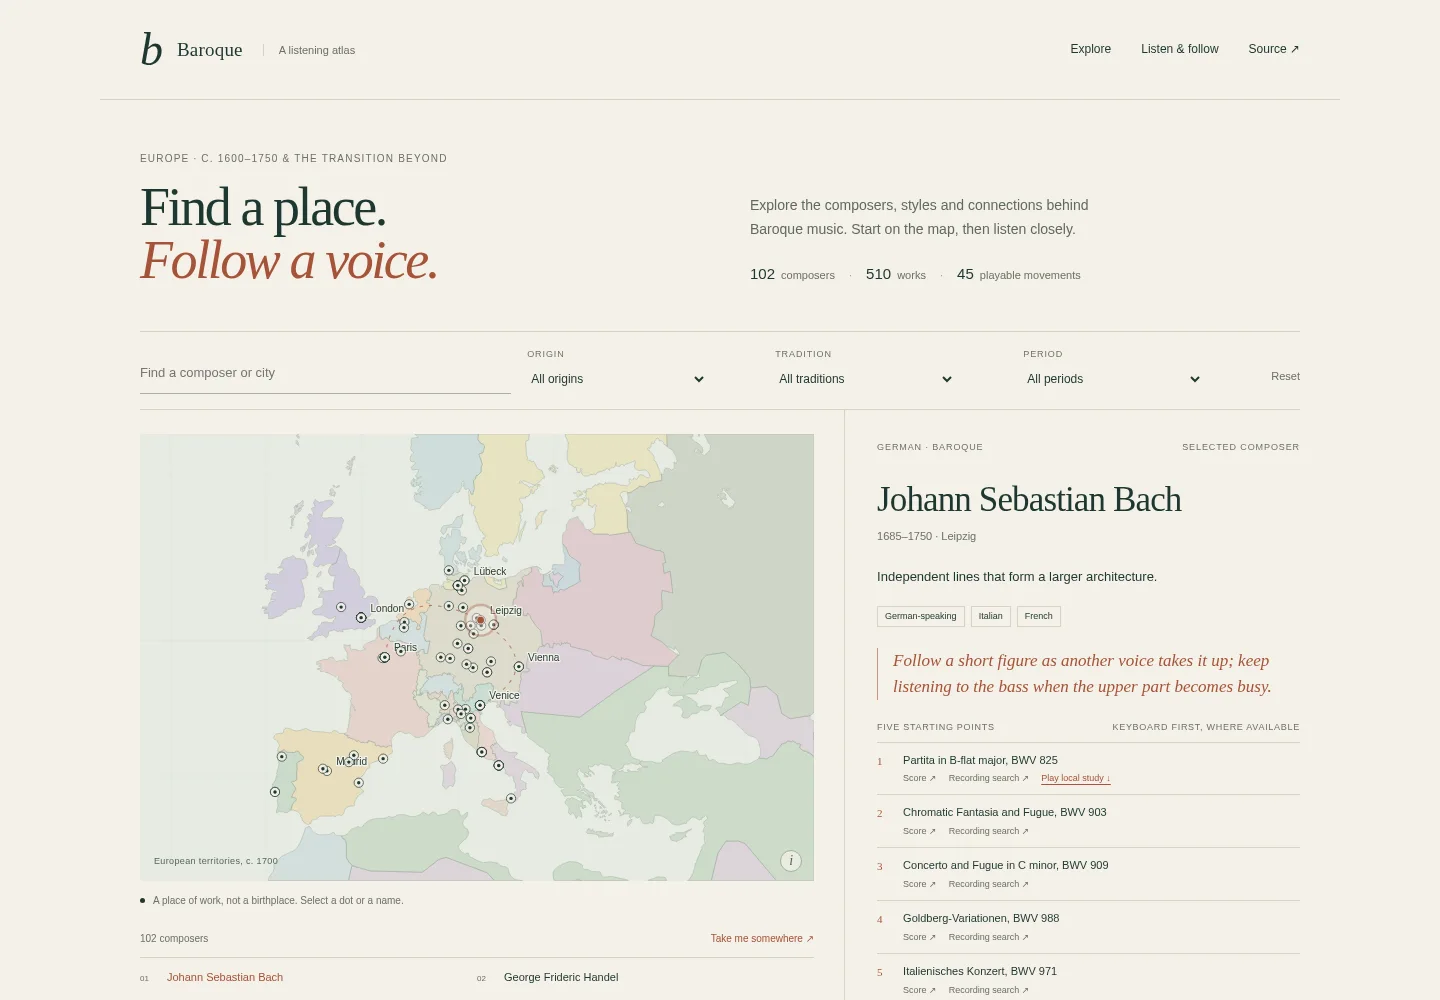
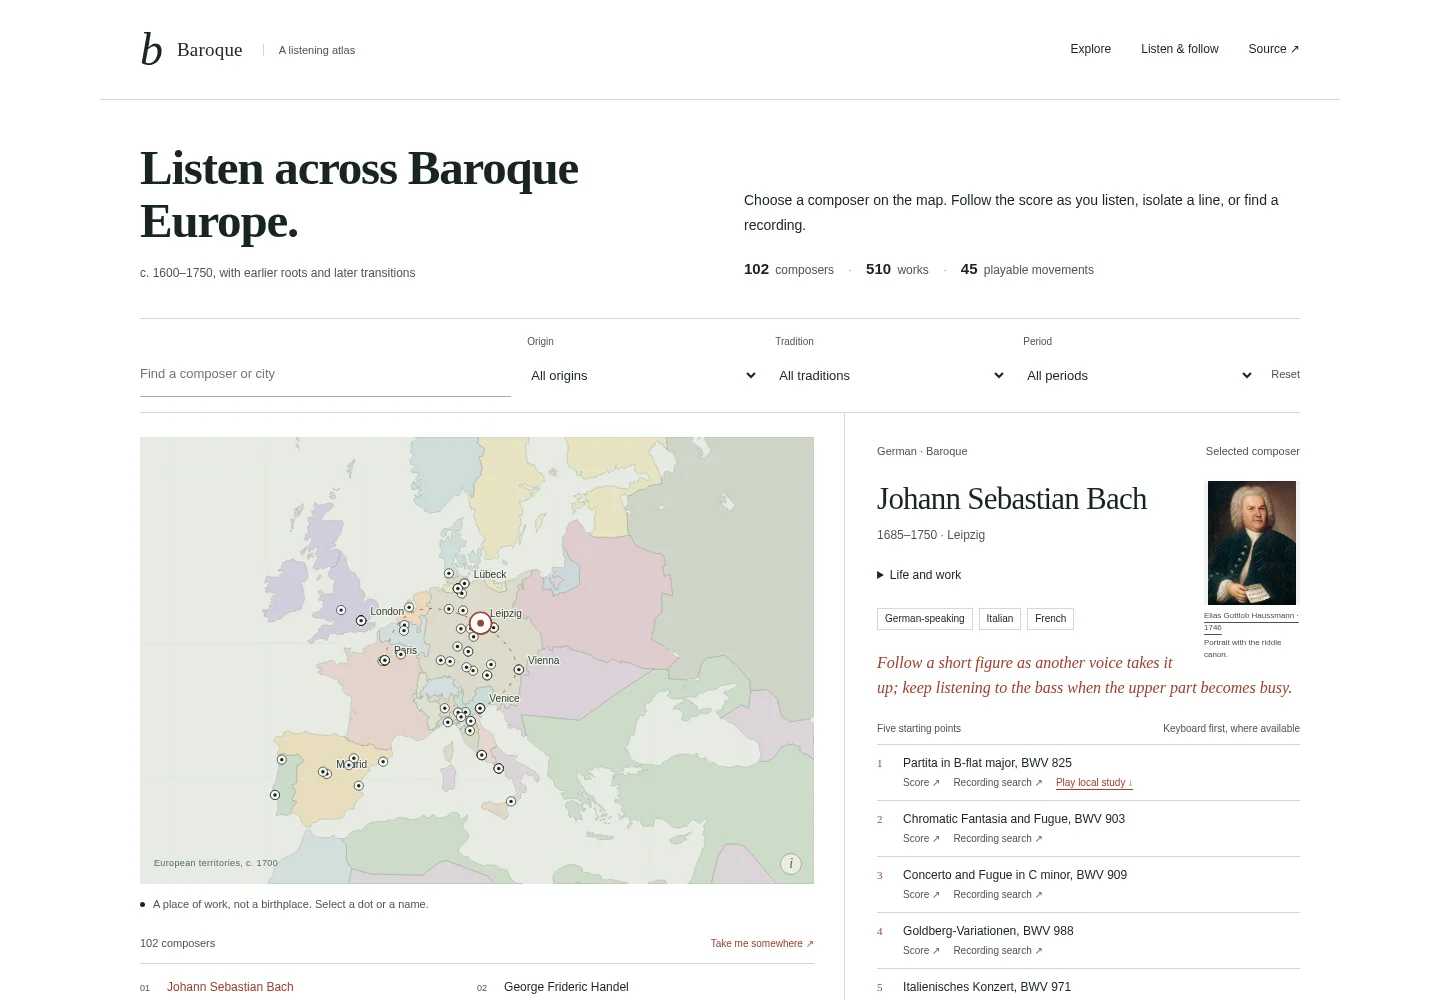
Refine mobile listening and publish score and atlas captures [skip ci]

diff --git a/src/index.html b/src/index.html
@@ -11,8 +11,8 @@
 <div class="atlas-layout"><div class="map-column"><div class="map-wrap"><svg id="map" viewBox="0 0 800 530" role="group" aria-label="Composers at one associated working city"><g id="map-base"><!--MAP--></g><g id="routes" aria-hidden="true"></g><g id="map-labels" aria-hidden="true"></g><g id="markers"></g></svg><div class="map-caption"><span>European territories, c. 1700</span><button class="map-help" id="map-help" aria-label="About the map">i</button></div></div><p class="map-note"><span class="map-dot"></span> A place of work, not a birthplace. Select a dot or a name.</p><div class="directory-head"><span id="result-count" aria-live="polite">102 composers</span><button id="random" class="text-button">Take me somewhere ↗</button></div><div id="directory" class="directory" aria-label="Composer directory"></div></div><aside id="composer" class="composer" aria-label="Selected composer"></aside></div>
 </section>
 <section id="study" class="study-section"><span id="player" aria-hidden="true"></span><div class="section-top"><div><h2>Listen with the score.</h2></div><button id="bach-study" class="outline">Study Bach's three voices ↗</button></div><div class="study-header"><div><p id="study-composer" class="eyebrow">J. S. Bach · BWV 825</p><h3 id="study-title">Praeludium · the first six bars</h3><p id="study-description">Three distinct lines, one keyboard. Follow the upper, inner and bass voices separately, then bring them together.</p></div><label class="movement-label"><span>Local keyboard studies</span><select id="movement"></select></label></div><div class="transport"><button id="play" class="play" aria-label="Play the selected study">▶ <span>Listen</span></button><button id="restart" class="restart" aria-label="Return to beginning">↺</button><span id="elapsed">0:00</span><input id="seek" aria-label="Playback position in seconds" type="range" min="0" max="36" step=".1" value="0"><span id="duration">0:36</span><label class="speed-label">Speed <select id="speed"><option value=".5">½×</option><option value=".75">¾×</option><option value="1" selected>1×</option><option value="1.25">1¼×</option></select></label><label class="volume-label"><span class="sr-only">Volume</span><input id="volume" aria-label="Volume" type="range" min="0" max=".7" step=".01" value=".42"></label></div><div class="voice-row" id="voices"></div>
-<details class="mix-levels"><summary>Balance source tracks</summary><div id="track-levels"></div></details><div class="sound-options"><label>Keyboard <select id="timbre"><option value="harpsichord">Harpsichord</option><option value="clavichord">Clavichord</option><option value="piano">Piano study</option><option value="organ">Small organ</option></select></label><label>Room <input id="reverb" type="range" min="0" max=".35" step=".01" value=".12"></label><label>Tuning <select id="tuning"><option value="440">A = 440 Hz</option><option value="415">A = 415 Hz</option></select></label><div class="loop-controls"><button id="loop-a" class="outline">Set A</button><button id="loop-b" class="outline">Set B</button><button id="loop-clear" class="text-button">Clear loop</button><span id="loop-state" role="status">Loop off</span></div></div>
-<div class="score-controls"><button id="score-prev" class="outline" aria-label="Previous score page">Previous</button><span id="score-page" aria-live="polite"></span><button id="score-next" class="outline" aria-label="Next score page">Next</button><label><input type="checkbox" id="score-follow" checked> Follow playback</label><label>View <select id="score-window"><option value="1">One bar</option><option value="2" selected>Two bars</option><option value="4">Four bars</option></select></label></div>
+<details class="mix-levels"><summary>Balance source tracks</summary><div id="track-levels"></div></details><details class="sound-panel"><summary>Sound, tuning &amp; looping</summary><div class="sound-options"><label>Keyboard <select id="timbre"><option value="harpsichord">Harpsichord</option><option value="clavichord">Clavichord</option><option value="piano">Piano study</option><option value="organ">Small organ</option></select></label><label>Room <input id="reverb" type="range" min="0" max=".35" step=".01" value=".12"></label><label>Tuning <select id="tuning"><option value="440">A = 440 Hz</option><option value="415">A = 415 Hz</option></select></label><div class="loop-controls"><button id="loop-a" class="outline">Set A</button><button id="loop-b" class="outline">Set B</button><button id="loop-clear" class="text-button">Clear loop</button><span id="loop-state" role="status">Loop off</span></div></div>
+</details><div class="score-controls"><button id="score-prev" class="outline" aria-label="Previous score page">Previous</button><span id="score-page" aria-live="polite"></span><button id="score-next" class="outline" aria-label="Next score page">Next</button><label><input type="checkbox" id="score-follow" checked> Follow playback</label><label>View <select id="score-window"><option value="1">One bar</option><option value="2" selected>Two bars</option><option value="4">Four bars</option></select></label></div>
 <p id="notation-note" class="notation-note"></p><div class="score-layout"><div id="score" class="score" tabindex="0" role="region" aria-label="Playback sheet music; scroll horizontally on small screens"></div><details class="roll-disclosure" open><summary>See the notes over time</summary><div class="roll-wrap"><p class="smallcaps">Pitch and duration</p><svg id="roll" viewBox="0 0 800 200" role="img" aria-label="Colored note timeline; rectangles show pitch and duration"></svg><p class="roll-explainer">Left to right: time. Higher on the page: higher pitch. Each color belongs to one voice or source track.</p></div></details></div><details class="edition-preview" id="edition-preview"><summary>Compare with the source engraving</summary><div id="source-score"></div><p id="source-score-note"></p></details><div class="source-row"><p id="edition-note"></p><a id="score-link" href="https://github.com/MutopiaProject/MutopiaProject/tree/master/ftp/BachJS/BWV825/1-Partita" target="_blank" rel="noopener">Source edition ↗</a><a id="recording-link" href="https://www.youtube.com/results?search_query=Johann+Sebastian+Bach+BWV+825+Praeludium" target="_blank" rel="noopener">Prefer a recording? Search YouTube ↗</a><a id="midi-link" href="assets/music/partita-study.mid" download>Download MIDI ↓</a></div><p id="audio-status" class="status" role="status"></p><details class="explainer"><summary>What am I listening for?</summary><div class="explainer-grid"><p><b>Counterpoint.</b> Each line has its own direction. Listen to the bass first, then add the middle and upper parts. Harmony emerges from the lines together.</p><p><b>Style.</b> French dance rhythms, Italian melodic clarity and German contrapuntal traditions overlap. The filters describe affinities, not borders or exclusive national schools.</p><p><b>The source matters.</b> The six-bar Bach study uses source-aligned voices and notation. Full movements retain the edition's MIDI tracks; a track may contain several musical voices. Other catalog entries link to external scores and recording searches.</p></div></details><details class="explainer"><summary>Explore forms, styles and listening exercises</summary><div id="education"></div></details><details class="explainer" id="shortcuts"><summary>Keyboard controls</summary><p>Space: play/pause. Left/right arrows: seek five seconds. Home: beginning. Number keys: mute or restore that voice or track. These shortcuts leave text fields and buttons alone.</p></details></section>
 </main>
 <footer><span>An independent project by Giulio Catanzariti</span><div><a href="ATTRIBUTION.md">Sources &amp; rights</a><a href="https://github.com/sargonxg/Baroque-music-room">GitHub ↗</a></div><small>Built for close listening. Local synthesis · no account · no tracking.</small></footer>

diff --git a/src/style.css b/src/style.css
@@ -20,3 +20,5 @@ button,a{transition:color .12s ease,background-color .12s ease}button:hover{filt
 
 /* CSP-safe fixed voice colors; no inline style attributes are required. */
 .voice-0{--voice:#b74131}.voice-1{--voice:#246a74}.voice-2{--voice:#966311}.voice-3{--voice:#8b6d26}.voice-4{--voice:#436f94}.voice-5{--voice:#9c4a69}
+
+.sound-panel{margin:10px 0 16px;font-size:12px}.sound-panel>summary{cursor:pointer;min-height:36px;display:list-item;padding:8px 0}.sound-panel .sound-options{padding:10px 0 4px}

diff --git a/README.md b/README.md
@@ -4,6 +4,10 @@
 
 [Mobile view](screenshots/mobile.webp)
 
+[100 implemented refinements](docs/REFINEMENTS-100.md) · [Browser review](docs/BROWSER-REVIEW-20261112.json)
+
+[Colored score view](screenshots/score-desktop-20261112.webp) · [Score on mobile](screenshots/score-mobile-20261112.webp)
+
 A browser app for exploring European Baroque music and listening to its structure.
 **102 composers, 510 source-linked works, 45 complete source-MIDI movements and a
 three-voice, six-bar Bach study.** It runs locally without an account or backend.
